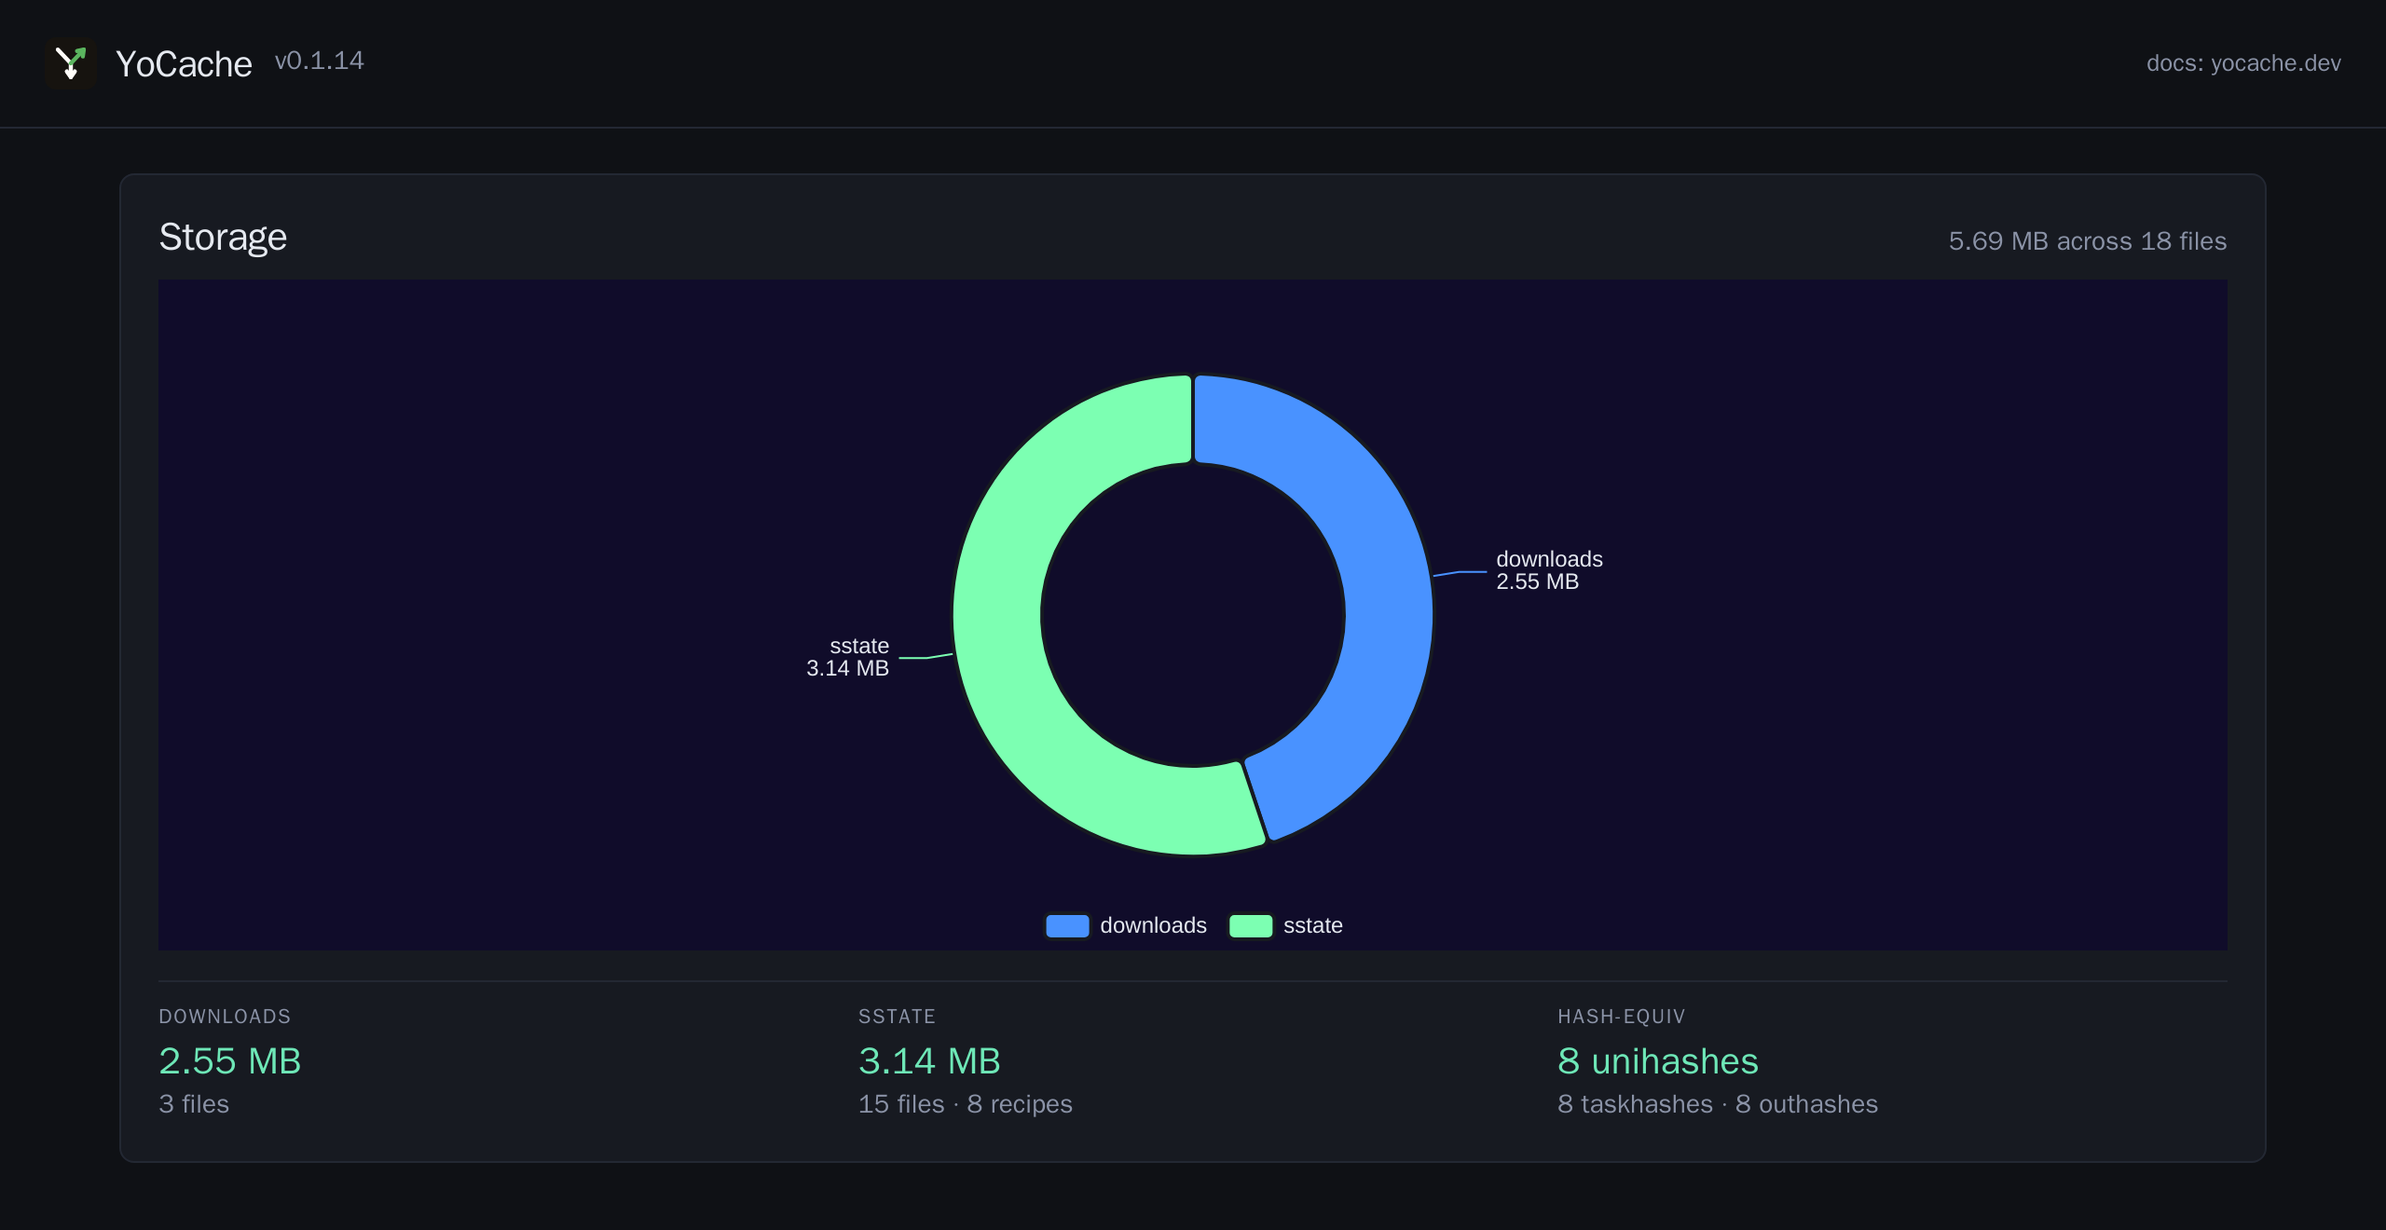
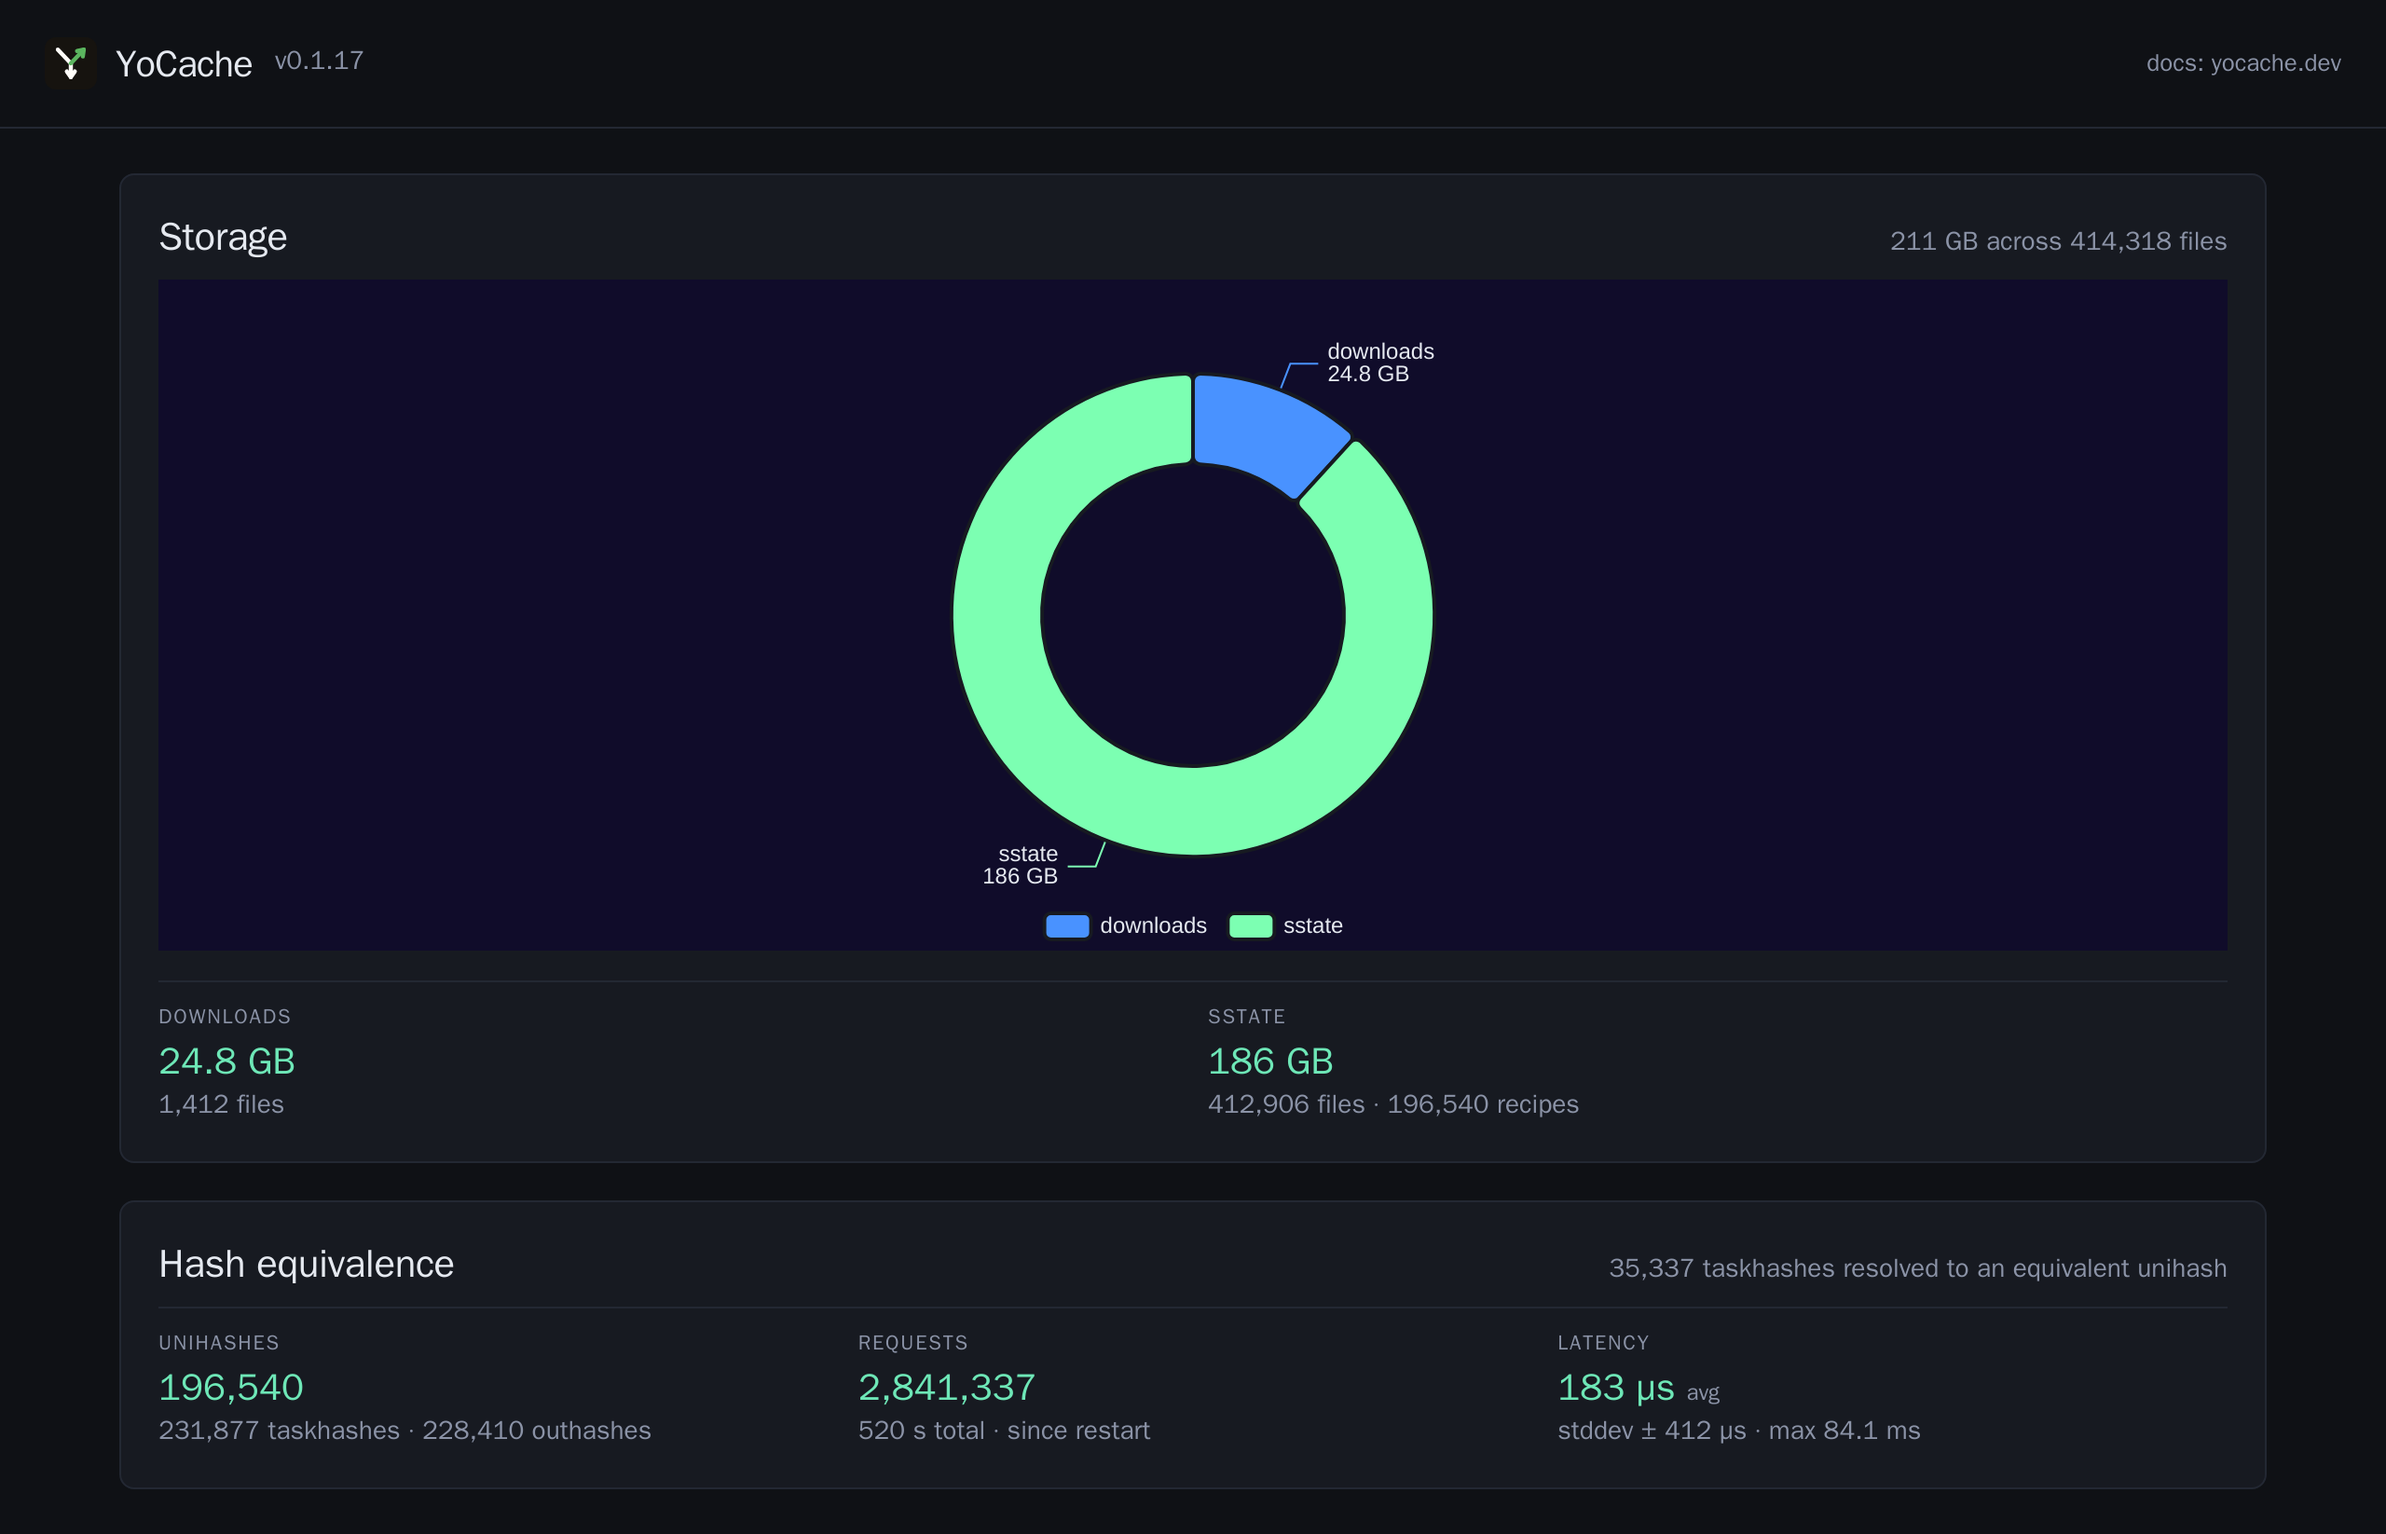
feat(web): show hash-equivalence request stats on the dashboard
get-stats already answers bitbake-hashclient, but its figures were only
reachable by speaking the protocol, so nobody could see at a glance whether
hash equivalence was being used or how fast it answered.

The dashboard asks /hashequiv itself rather than through a new HTTP
endpoint: it reads exactly what a bitbake client would, and there is no
second copy of the stats to keep in step with the protocol. The row counts
move out of the Storage panel to sit next to them, since they are not
storage in the blob-store sense.

diff --git a/cmd/yocache/web/src/panels/HashEquivPanel.svelte b/cmd/yocache/web/src/panels/HashEquivPanel.svelte
@@ -1,0 +1,123 @@
+<script lang="ts">
+  import type { Stats } from '../lib/api';
+  import type { HashEquivRequestStats } from '../lib/hashequiv';
+  import { humanCount, humanSeconds } from '../lib/format';
+
+  // requests is null while get-stats is in flight; requestsError is set
+  // instead when it failed (e.g. --hash-equivalence off). Row counts come
+  // from /api/stats and are shown either way.
+  type Props = {
+    stats: Stats;
+    requests: HashEquivRequestStats | null;
+    requestsError: string | null;
+  };
+  let { stats, requests, requestsError }: Props = $props();
+
+  // Taskhashes beyond one per unihash are ones whose output matched an
+  // existing unihash — each a task whose sstate was reused instead of rebuilt.
+  const spared = $derived(
+    Math.max(0, stats.hashequiv_taskhashes - stats.hashequiv_unihashes),
+  );
+</script>
+
+<section class="panel">
+  <header>
+    <h2>Hash equivalence</h2>
+    <span class="muted">{humanCount(spared)} taskhashes resolved to an equivalent unihash</span>
+  </header>
+
+  <dl class="grid">
+    <div>
+      <dt>unihashes</dt>
+      <dd>{humanCount(stats.hashequiv_unihashes)}</dd>
+      <dd class="muted">
+        {humanCount(stats.hashequiv_taskhashes)} taskhashes · {humanCount(
+          stats.hashequiv_outhashes,
+        )} outhashes
+      </dd>
+    </div>
+    <div>
+      <dt>requests</dt>
+      {#if requests}
+        <dd>{humanCount(requests.num)}</dd>
+        <dd class="muted">{humanSeconds(requests.total_time)} total · since restart</dd>
+      {:else if requestsError}
+        <dd class="muted">n/a</dd>
+        <dd class="muted">{requestsError}</dd>
+      {:else}
+        <dd class="muted">…</dd>
+      {/if}
+    </div>
+    {#if requests}
+      <div>
+        <dt>latency</dt>
+        <dd>{humanSeconds(requests.average)} <span class="label">avg</span></dd>
+        <dd class="muted">
+          stddev {requests.stdev
+            ? '± '
+            : ''}{humanSeconds(requests.stdev)} · max {humanSeconds(requests.max_time)}
+        </dd>
+      </div>
+    {/if}
+  </dl>
+</section>
+
+<style>
+  .panel {
+    background: var(--panel);
+    border: 1px solid var(--panel-border);
+    border-radius: 8px;
+    padding: 20px;
+  }
+
+  header {
+    display: flex;
+    align-items: baseline;
+    justify-content: space-between;
+    gap: 12px;
+    margin-bottom: 8px;
+  }
+
+  .grid {
+    display: grid;
+    grid-template-columns: repeat(auto-fit, minmax(180px, 1fr));
+    gap: 16px;
+    margin: 0;
+    padding: 12px 0 0;
+    border-top: 1px solid var(--panel-border);
+  }
+
+  .grid > div {
+    display: flex;
+    flex-direction: column;
+    gap: 2px;
+  }
+
+  dt {
+    font-size: 11px;
+    text-transform: uppercase;
+    letter-spacing: 0.08em;
+    color: var(--fg-muted);
+  }
+
+  dd {
+    margin: 0;
+    font-variant-numeric: tabular-nums;
+  }
+
+  dd:first-of-type {
+    font-size: 20px;
+    font-weight: 600;
+    color: var(--accent);
+  }
+
+  .label {
+    font-size: 12px;
+    font-weight: 400;
+    color: var(--fg-muted);
+  }
+
+  dd.muted:first-of-type {
+    color: var(--fg-muted);
+  }
+</style>

diff --git a/cmd/yocache/web/src/lib/hashequiv.ts b/cmd/yocache/web/src/lib/hashequiv.ts
@@ -1,0 +1,59 @@
+// Minimal OEHASHEQUIV client over the server's /hashequiv WebSocket — just
+// enough to ask get-stats, the same command bitbake-hashclient uses, so the
+// dashboard reads the very figures a bitbake client would rather than a
+// second HTTP copy of them. Framing per cmd/yocache/hashequiv.go: one text
+// frame per line, handshake "OEHASHEQUIV <ver>" then an empty frame ending
+// the (absent) headers, then one JSON frame per request/reply.
+
+// Mirrors hashEquivStatsSnapshot in cmd/yocache/hashequiv_stats.go. Times are
+// in seconds.
+export type HashEquivRequestStats = {
+  num: number;
+  total_time: number;
+  max_time: number;
+  average: number;
+  stdev: number;
+};
+
+const TIMEOUT_MS = 5000;
+
+// Resolved relative to the dashboard at <prefix>/ui/, like api.ts, so a
+// reverse-proxy prefix is kept; http(s) maps to ws(s).
+function hashEquivURL(): string {
+  const u = new URL('../hashequiv', location.href);
+  u.protocol = u.protocol === 'https:' ? 'wss:' : 'ws:';
+  return u.toString();
+}
+
+export function fetchHashEquivStats(): Promise<HashEquivRequestStats> {
+  return new Promise((resolve, reject) => {
+    const ws = new WebSocket(hashEquivURL());
+    const fail = (msg: string) => {
+      clearTimeout(timer);
+      ws.close(1000);
+      reject(new Error(msg));
+    };
+    const timer = setTimeout(() => fail('hash-equivalence get-stats timed out'), TIMEOUT_MS);
+
+    ws.onopen = () => {
+      ws.send('OEHASHEQUIV 1.1');
+      ws.send('');
+      ws.send(JSON.stringify({ 'get-stats': null }));
+    };
+    ws.onmessage = (ev) => {
+      clearTimeout(timer);
+      ws.close(1000);
+      try {
+        const reply = JSON.parse(String(ev.data));
+        if (!reply?.requests) throw new Error(`unexpected reply: ${ev.data}`);
+        resolve(reply.requests);
+      } catch (e) {
+        reject(e instanceof Error ? e : new Error(String(e)));
+      }
+    };
+    // What --hash-equivalence off looks like: /hashequiv isn't routed, so the
+    // upgrade is refused. The browser hides the status code, so a proxy that
+    // doesn't pass WebSockets lands here too; off is by far the likelier one.
+    ws.onerror = () => fail('not enabled on this server');
+  });
+}

diff --git a/cmd/yocache/web/src/App.svelte b/cmd/yocache/web/src/App.svelte
@@ -1,14 +1,24 @@
 <script lang="ts">
   import { onMount } from 'svelte';
   import { fetchStats, fetchVersion, type Stats, type VersionInfo } from './lib/api';
+  import { fetchHashEquivStats, type HashEquivRequestStats } from './lib/hashequiv';
   import StoragePanel from './panels/StoragePanel.svelte';
+  import HashEquivPanel from './panels/HashEquivPanel.svelte';
   import logo from './assets/yocache-avatar.svg';
 
   let stats = $state<Stats | null>(null);
   let version = $state<VersionInfo | null>(null);
   let error = $state<string | null>(null);
+  let heRequests = $state<HashEquivRequestStats | null>(null);
+  let heRequestsError = $state<string | null>(null);
 
   onMount(async () => {
+    // Separate from the page-level load: a missing hash-equivalence endpoint
+    // (--hash-equivalence off) shouldn't blank the rest of the dashboard.
+    fetchHashEquivStats().then(
+      (r) => (heRequests = r),
+      (e) => (heRequestsError = e instanceof Error ? e.message : String(e)),
+    );
     try {
       const [s, v] = await Promise.all([fetchStats(), fetchVersion()]);
       stats = s;
@@ -39,6 +49,7 @@
     <p class="error">Failed to load: {error}</p>
   {:else if stats}
     <StoragePanel {stats} />
+    <HashEquivPanel {stats} requests={heRequests} requestsError={heRequestsError} />
   {:else}
     <p class="muted">Loading…</p>
   {/if}

diff --git a/cmd/yocache/web/src/lib/format.ts b/cmd/yocache/web/src/lib/format.ts
@@ -20,3 +20,12 @@ export function humanBytes(bytes: number): string {
 export function humanCount(n: number): string {
   return n.toLocaleString();
 }
+
+// Seconds (as the hash-equivalence get-stats reply reports them) in the
+// largest unit that keeps the figure >= 1: requests are typically µs to ms.
+export function humanSeconds(s: number): string {
+  if (!Number.isFinite(s) || s <= 0) return '0 s';
+  const [v, unit] =
+    s >= 1 ? [s, 's'] : s >= 1e-3 ? [s * 1e3, 'ms'] : [s * 1e6, 'µs'];
+  return `${v.toFixed(v < 10 ? 2 : v < 100 ? 1 : 0)} ${unit}`;
+}

diff --git a/cmd/yocache/web/src/panels/StoragePanel.svelte b/cmd/yocache/web/src/panels/StoragePanel.svelte
@@ -65,15 +65,6 @@
         )} recipes
       </dd>
     </div>
-    <div>
-      <dt>hash-equiv</dt>
-      <dd>{humanCount(stats.hashequiv_unihashes)} unihashes</dd>
-      <dd class="muted">
-        {humanCount(stats.hashequiv_taskhashes)} taskhashes · {humanCount(
-          stats.hashequiv_outhashes,
-        )} outhashes
-      </dd>
-    </div>
   </dl>
 </section>
 

diff --git a/site/src/content/docs/server-configuration.md b/site/src/content/docs/server-configuration.md
@@ -57,17 +57,19 @@ time spent sending a command's reply (stream lines include it, as in BitBake).
 The response does not include the current `get-stats` request, which is
 counted once it finishes. Statistics are held in memory and start from zero on
 server restart; they are separate from the persistent cache inventory at
-`/api/stats`. The `reset-stats` command is not supported.
+`/api/stats`. The `reset-stats` command is not supported. The
+[web dashboard](#web-dashboard) shows them too, asking `/hashequiv` itself.
 
 ## Web dashboard
 
 Point a browser at the server (e.g. `http://yourcache.local:6768/`) to
 see a live dashboard of the same data, plus a pie chart of blob-store
-byte share. It's a Svelte SPA compiled into the binary — no separate web
-host, no configuration flag, no way to disable it in this release. Root
-`/` returns a 301 to `/ui/` where the dashboard lives.
+byte share and the [hash-equivalence request
+statistics](#hash-equivalence-request-statistics). It's a Svelte SPA compiled
+into the server binary and available under the `/ui/` path — no separate web
+host needed.
 
-![The YoCache dashboard: a ring chart of how the stored bytes split between downloads and sstate, and totals for downloads, sstate (files and recipes) and hash-equivalence entries.](../../assets/dashboard.png)
+![The YoCache dashboard: a ring chart of how the stored bytes split between downloads and sstate with their totals (files and recipes), and a hash-equivalence panel with stored unihashes, request count and average latency.](../../assets/dashboard.png)
 
 The dashboard uses only relative URLs, so it also works behind a reverse
 proxy that strips a path prefix — e.g. several instances at

diff --git a/CHANGELOG.md b/CHANGELOG.md
@@ -18,6 +18,9 @@ follows [Keep a Changelog](https://keepachangelog.com/en/1.0.0/).
   `get-outhash`.
 - Evicting an sstate archive moves its hash-equivalence entries to an
   equivalent archive that is still cached, instead of dropping them.
+- The dashboard has a hash-equivalence panel: stored unihashes, how many
+  taskhashes resolved to an equivalent one, and the request count and
+  latency from `get-stats`.
 
 ### Changed
 - Hash equivalence moved to bitbake's `outhashes_v2` layout, keeping every
